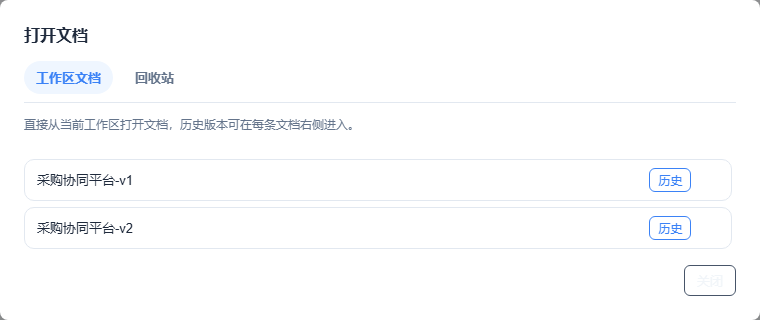
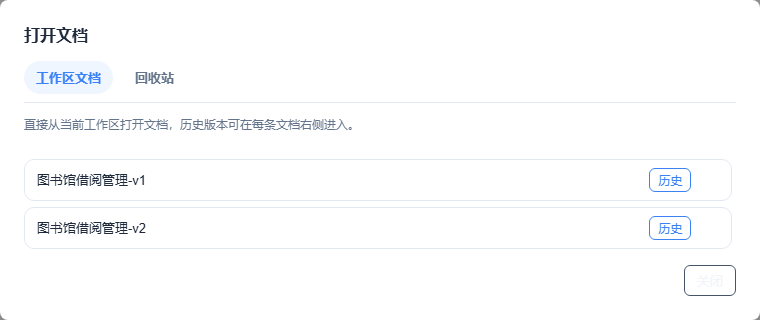
文档：将自动截图切换为图书馆案例

Changed region(s): [[0.0303, 0.6875, 0.2118, 0.75], [0.0303, 0.5312, 0.1816, 0.5938]]

diff --git a/tools/e2e/scripts/capture-doc-screenshots.js b/tools/e2e/scripts/capture-doc-screenshots.js
@@ -21,37 +21,41 @@ function buildDocument(name, { processName, entityName, relationLabel }) {
     roles: [
       {
         id: 'R1',
-        name: '业务专员',
+        name: '馆员',
         desc: '',
         group: '业务参与方',
-        subDomains: ['采购'],
+        subDomains: ['图书馆借阅管理'],
       },
     ],
     language: [
       {
-        term: '采购申请',
-        definition: '业务侧提交的采购需求单据',
+        term: '借阅',
+        definition: '读者借出馆藏图书的业务动作',
+      },
+      {
+        term: '归还',
+        definition: '读者将馆藏图书归还至图书馆',
       },
     ],
     processes: [
       {
         id: 'P1',
         name: processName,
-        trigger: '提交申请',
-        outcome: '完成审核',
+        trigger: '读者发起请求',
+        outcome: '完成借阅或归还处理',
         tasks: [
           {
             id: 'T1',
-            name: '登记申请',
+            name: '处理馆藏',
             role_id: 'R1',
-            role: '业务专员',
+            role: '馆员',
             repeatable: false,
-            rules_note: '申请单必须填写完整',
+            rules_note: '必须先核对读者资格与馆藏状态',
             steps: [
               {
-                name: '填写申请',
+                name: '核对借阅信息',
                 type: 'Fill',
-                note: '录入采购主题、预算和数量',
+                note: '登记读者、馆藏条码和业务状态',
               },
             ],
             entity_ops: [
@@ -68,11 +72,11 @@ function buildDocument(name, { processName, entityName, relationLabel }) {
       {
         id: 'E1',
         name: entityName,
-        group: '采购',
+        group: '图书馆借阅管理',
         note: '',
         fields: [
           {
-            name: '申请单号',
+            name: '记录编号',
             type: 'id',
             is_key: true,
             is_status: false,
@@ -80,21 +84,21 @@ function buildDocument(name, { processName, entityName, relationLabel }) {
             note: '',
           },
           {
-            name: '单据状态',
+            name: '状态',
             type: 'enum',
             is_key: false,
             is_status: true,
-            state_values: '草稿/待审核/已完成',
+            state_values: '草稿/处理中/已完成',
             note: '业务主状态',
           },
         ],
         state_transitions: [
           {
             from: '草稿',
-            to: '待审核',
-            action: '提交',
-            note: '提交后进入审批',
-            field_name: '单据状态',
+            to: '处理中',
+            action: '提交处理',
+            note: '进入馆员处理阶段',
+            field_name: '状态',
           },
         ],
       },
@@ -110,10 +114,10 @@ function buildDocument(name, { processName, entityName, relationLabel }) {
     rules: [
       {
         id: 'RULE-1',
-        name: '预算校验',
+        name: '馆藏状态校验',
         type: 'check',
         applies_to: 'P1',
-        description: '预算必须大于零',
+        description: '只有可借馆藏才能进入借阅流程',
         formula: '',
       },
     ],
@@ -127,7 +131,7 @@ async function waitForServer() {
       const response = await fetch(`${baseUrl}/api/files`);
       if (response.ok) return;
     } catch (_) {
-      // ignore until ready
+      // wait until ready
     }
     await new Promise((resolve) => setTimeout(resolve, 500));
   }
@@ -169,19 +173,19 @@ async function captureScreenshots() {
     await waitForServer();
 
     await createDocument(
-      '采购协同平台-v1',
-      buildDocument('采购协同平台-v1', {
-        processName: '采购申请流程',
-        entityName: '采购申请单',
-        relationLabel: '同源申请',
+      '图书馆借阅管理-v1',
+      buildDocument('图书馆借阅管理-v1', {
+        processName: '借阅流程',
+        entityName: '借阅记录',
+        relationLabel: '关联借阅',
       }),
     );
     await createDocument(
-      '采购协同平台-v2',
-      buildDocument('采购协同平台-v2', {
-        processName: '采购审批流程',
-        entityName: '审批记录',
-        relationLabel: '审批引用',
+      '图书馆借阅管理-v2',
+      buildDocument('图书馆借阅管理-v2', {
+        processName: '归还流程',
+        entityName: '归还记录',
+        relationLabel: '关联归还',
       }),
     );
 
@@ -194,7 +198,7 @@ async function captureScreenshots() {
       path: path.join(screenshotDir, '05_open_dialog.png'),
     });
 
-    await page.locator('.file-list-item').filter({ hasText: '采购协同平台-v1' }).first().click();
+    await page.locator('.file-list-item').filter({ hasText: '图书馆借阅管理-v1' }).first().click();
     await page.screenshot({
       path: path.join(screenshotDir, '06_workspace_editor.png'),
       fullPage: true,
